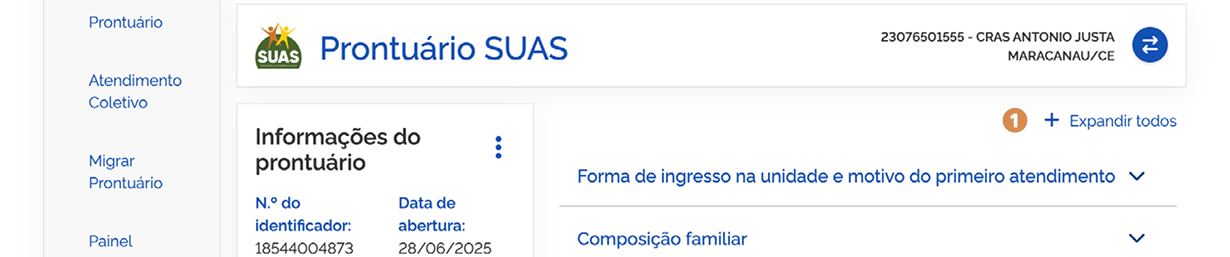
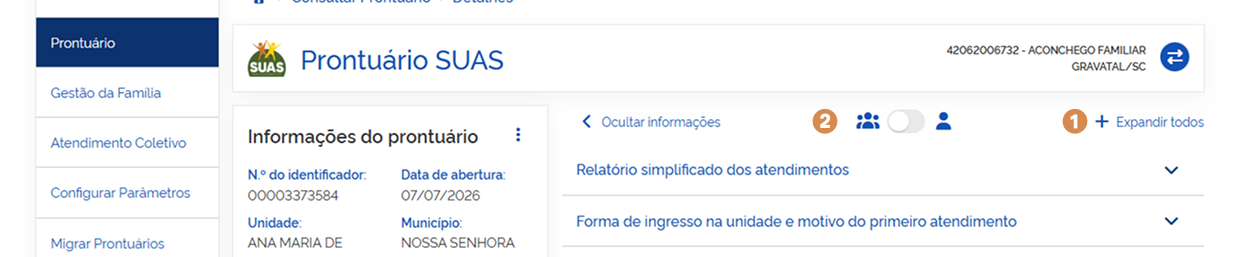
executado ate pagina 48

diff --git a/prontuario-dataprev/manual-markdown-quarto/completo.html b/prontuario-dataprev/manual-markdown-quarto/completo.html
@@ -966,7 +966,7 @@ Eletrônico</p>
 </figure>
 </div>
 <h3 id="registro-de-pessoa-e-família">Registro de pessoa e família</h3>
-<p>Os benefícios ofertados pela assistência social têm como objetivo garantir proteção, promover o bem-estar e fortalecer os vínculos familiares e comunitários. Eles podem ser destinados à família como um todo ou a um de seus membros em particular, conforme a situação identificada no atendimento.</p>
+<p>Os benefícios ofertados pela assistência social têm como objetivo garantir proteção, promover o bem-estar e fortalecer os vínculos familiares e comunitários. Eles podem ser destinados à família como um todo ou a um de seus membros em particular, conforme a situação identificada no atendimento <kbd>2</kbd>.</p>
 <ul>
 <li><strong>Benefícios voltados à família:</strong> são aqueles que consideram as necessidades do núcleo familiar de forma integrada, buscando melhorar suas condições de vida de maneira coletiva. Exemplos incluem benefícios que apoiam a renda familiar, a moradia ou o acesso a serviços essenciais, fortalecendo a estrutura e a autonomia da família como um todo.</li>
 <li><strong>Benefícios voltados a um membro específico:</strong> destinam-se a atender situações particulares de um integrante da família, quando há uma vulnerabilidade individual que requer atenção diferenciada — como uma pessoa idosa, com deficiência, gestante, criança ou adolescente em situação de risco.</li>
@@ -987,11 +987,10 @@ Eletrônico</p>
 </div>
 </div>
 </div>
-<h2 id="aspectos-globais-do-módulo-prontuário-1">Aspectos globais do módulo Prontuário</h2>
 <h3 id="registro-de-marcadores">Registro de marcadores</h3>
 <div class="quarto-figure quarto-figure-center">
 <figure>
-<p><img src="img/aspectos-globais-do-modulo-prontuario-8.png"></p>
+<p><img src="img/aspectos-globais-do-modulo-prontuario-8.png" class="w-80"></p>
 <figcaption>Registro de marcadores</figcaption>
 </figure>
 </div>
@@ -1090,10 +1089,11 @@ Eletrônico</p>
 <h3 id="registrar-data-de-término">Registrar data de término</h3>
 <div class="quarto-figure quarto-figure-center">
 <figure>
-<p><img src="img/aspectos-globais-do-modulo-prontuario-11.png"></p>
+<p><img src="img/aspectos-globais-do-modulo-prontuario-11.png" class="w-80"></p>
 <figcaption>Registrar data de término</figcaption>
 </figure>
 </div>
+<p><br></p>
 <p>Para definir o encerramento da vigência do marcador, acione a opção <kbd>4</kbd> <strong>Registrar data de término</strong> (ícone <code>+</code>) na tabela. O sistema apresentará a janela <strong>Registrar data de término</strong> com os seguintes campos:</p>
 <ul>
 <li><strong>Data de término</strong> – campo para informar a data de conclusão/encerramento do marcador;</li>
@@ -1133,7 +1133,8 @@ Eletrônico</p>
 <li><strong>N.º do identificador</strong> – campo que informa o número de identificação do prontuário de atendimento da pessoa;</li>
 <li><strong>Data de abertura</strong> – campo que informa a data em que o prontuário de atendimento da pessoa foi criado;</li>
 <li><strong>Unidade</strong> – campo que informa o nome da unidade CRAS responsável pelo cadastro do prontuário de atendimento da pessoa;</li>
-<li><strong>Município/ UF</strong> – campo que informa o município e estado onde está localizada a unidade CRAS responsável pelo cadastro do prontuário de atendimento da pessoa.</li>
+<li><strong>Município/ UF</strong> – campo que informa o município e estado onde está localizada a unidade CRAS responsável pelo cadastro do prontuário de atendimento da pessoa;</li>
+<li><strong>Origem das informações</strong> – campo que informa a origem das informações do prontuário.</li>
 </ul>
 <p>Caso exista solicitação de migração para o prontuário eletrônico da pessoa/ família, será apresentada a mensagem: <em>“Existe solicitação de migração em andamento para a unidade &lt;&lt;cód. e nome da unidade de destino&gt;&gt;”</em>.</p>
 </div>
@@ -1189,7 +1190,7 @@ Eletrônico</p>
 </figure>
 </div>
 <h2 id="migrar-prontuário-2">Migrar Prontuário</h2>
-<p>Conforme representado na janela representada na página anterior, o agrupamento é composto pelos campos:</p>
+<p>Conforme representado na janela da página anterior, o agrupamento é composto pelos campos:</p>
 <ul>
 <li><strong>Texto informativo</strong> – Ao confirmar a operação, será criada uma solicitação de migração do prontuário da pessoa e demais membros da família para a unidade de destino.</li>
 </ul>
@@ -1271,7 +1272,8 @@ Eletrônico</p>
 <li><strong>Nome do técnico responsável</strong> – campo que informa o nome do técnico responsável pela solicitação;</li>
 <li><strong>UF</strong> – campo para informar a UF da unidade de destino;</li>
 <li><strong>Município</strong> – campo para informar o município conforme UF da unidade de destino;</li>
-<li><strong>Motivo</strong> – campo para informar o motivo da solicitação de migração do prontuário da pessoa/ família. O sistema listará as unidades conforme UF/ município informado anteriormente;</li>
+<li><strong>Unidade de destino</strong> – campo para informar a unidade de destino do prontuário da pessoa/ família. O sistema listará as unidades conforme UF/ município informado anteriormente;</li>
+<li><strong>Motivo</strong> – campo para informar o motivo da solicitação de migração do prontuário da pessoa/ família;</li>
 <li><strong>Cancelar</strong> – opção que ao ser acionada, cancela a ação e fecha a janela;</li>
 <li><strong>Confirmar</strong> – opção que, ao ser acionada, salva a solicitação de migração do prontuário eletrônico.</li>
 </ul>
@@ -1861,8 +1863,8 @@ Conforme representado na janela acima, o agrupamento é composto pelos campos:
 <h2 id="forma-de-ingresso-na-unidade-e-motivo-do-primeiro-atendimento-8">Forma de ingresso na unidade e motivo do primeiro atendimento</h2>
 <h3 id="excluir-registro">Excluir registro</h3>
 <p>Para <strong>excluir o registro da lista</strong>, acione a opção <kbd>5</kbd> <strong>Excluir forma de ingresso</strong>, e o sistema solicitará a confirmação da ação. Caso confirmada, o sistema atualiza a lista e apresenta a mensagem <em>“Forma de ingresso excluída com sucesso”</em>.</p>
-<h3 id="observações-e-marcadores-de-forma-de-ingresso-e-motivo-do-primeiro-atendimento">Observações e Marcadores de forma de ingresso e motivo do primeiro atendimento</h3>
-<p>Para mais informações sobre o <kbd>5</kbd> <strong>registro de observações</strong> e o <kbd>6</kbd> <strong>registro de marcadores</strong>, consulte as páginas <a href="#aspectos-globais-do-módulo-prontuário">19</a> e <a href="#aspectos-globais-do-módulo-prontuário">23</a> deste manual, respectivamente.</p>
+<h3 id="observações-e-marcadores-de-forma-de-ingresso-e-motivo-do-primeiro-atendimento">Observações e marcadores de forma de ingresso e motivo do primeiro atendimento</h3>
+<p>Para mais informações sobre o <kbd>5</kbd> <strong>registro de observações</strong> e o <kbd>6</kbd> <strong>registro de marcadores</strong>, consulte as páginas <a href="#aspectos-globais-do-módulo-prontuário">21</a> e <a href="#aspectos-globais-do-módulo-prontuário">24</a> deste manual, respectivamente.</p>
 <p><br></p>
 <p>Para retrair ou reexibir as informações contidas no bloco, acione o <kbd>8</kbd> ícone.</p>
 </div>
@@ -1928,7 +1930,8 @@ Conforme representado na janela acima, o agrupamento é composto pelos campos:
 </figure>
 </div>
 <h2 id="composição-familiar-3">Composição familiar</h2>
-<p>Para mais informações sobre o <kbd>4</kbd> <strong>registro de observações</strong> e o <kbd>5</kbd> <strong>registro de marcadores</strong>, consulte as páginas <a href="#aspectos-globais-do-módulo-prontuário">19</a> e <a href="#aspectos-globais-do-módulo-prontuário">23</a> deste manual, respectivamente.</p>
+<h3 id="observações-e-marcadores-de-composição-familiar">Observações e marcadores de Composição familiar</h3>
+<p>Para mais informações sobre o <kbd>4</kbd> <strong>registro de observações</strong> e o <kbd>5</kbd> <strong>registro de marcadores</strong>, consulte as páginas <a href="#aspectos-globais-do-módulo-prontuário">21</a> e <a href="#aspectos-globais-do-módulo-prontuário">24</a> deste manual, respectivamente.</p>
 <p><br></p>
 <p>Para retrair ou reexibir as informações contidas no bloco, acione o <kbd>6</kbd> ícone.</p>
 </div>

diff --git a/prontuario-dataprev/manual-markdown-quarto/_base.css b/prontuario-dataprev/manual-markdown-quarto/_base.css
@@ -512,6 +512,7 @@ img {
   margin-bottom: 2.5rem;
   margin-left: auto;
   margin-right: auto;
+  border: 1px solid var(--light-gray);
 }
 
 /* Single column full-width page */

diff --git a/prontuario-dataprev/manual-markdown-quarto/completo.md b/prontuario-dataprev/manual-markdown-quarto/completo.md
@@ -775,7 +775,7 @@ Na página de blocos de atendimento, clique em <kbd>1</kbd> **Expandir todos** p
 
 ### Registro de pessoa e família
 
-Os benefícios ofertados pela assistência social têm como objetivo garantir proteção, promover o bem-estar e fortalecer os vínculos familiares e comunitários. Eles podem ser destinados à família como um todo ou a um de seus membros em particular, conforme a situação identificada no atendimento.
+Os benefícios ofertados pela assistência social têm como objetivo garantir proteção, promover o bem-estar e fortalecer os vínculos familiares e comunitários. Eles podem ser destinados à família como um todo ou a um de seus membros em particular, conforme a situação identificada no atendimento <kbd>2</kbd>.
 
 - **Benefícios voltados à família:** são aqueles que consideram as necessidades do núcleo familiar de forma integrada, buscando melhorar suas condições de vida de maneira coletiva. Exemplos incluem benefícios que apoiam a renda familiar, a moradia ou o acesso a serviços essenciais, fortalecendo a estrutura e a autonomia da família como um todo.
 - **Benefícios voltados a um membro específico:** destinam-se a atender situações particulares de um integrante da família, quando há uma vulnerabilidade individual que requer atenção diferenciada — como uma pessoa idosa, com deficiência, gestante, criança ou adolescente em situação de risco.
@@ -788,11 +788,9 @@ Os benefícios ofertados pela assistência social têm como objetivo garantir pr
 
 {{< include _header-prontuario-individual.md >}}
 
-## Aspectos globais do módulo Prontuário
-
 ### Registro de marcadores
 
-![Registro de marcadores](img/aspectos-globais-do-modulo-prontuario-8.png)
+![Registro de marcadores](img/aspectos-globais-do-modulo-prontuario-8.png){.w-80}
 
 O **Registro de marcadores** permite identificar e sinalizar situações ou particularidades relacionadas aos membros da família no Prontuário.
 
@@ -866,7 +864,9 @@ Para editar, acione a opção <kbd>3</kbd> **Alterar marcador** (ícone de lápi
 
 ### Registrar data de término
 
-![Registrar data de término](img/aspectos-globais-do-modulo-prontuario-11.png)
+![Registrar data de término](img/aspectos-globais-do-modulo-prontuario-11.png){.w-80}
+
+</br>
 
 Para definir o encerramento da vigência do marcador, acione a opção <kbd>4</kbd> **Registrar data de término** (ícone `+`) na tabela. O sistema apresentará a janela **Registrar data de término** com os seguintes campos:
 
@@ -899,7 +899,8 @@ Conforme representado na tela ao lado, o agrupamento é composto pelos campos:
 - **N.º do identificador** – campo que informa o número de identificação do prontuário de atendimento da pessoa;
 - **Data de abertura** – campo que informa a data em que o prontuário de atendimento da pessoa foi criado;
 - **Unidade** – campo que informa o nome da unidade CRAS responsável pelo cadastro do prontuário de atendimento da pessoa;
-- **Município/ UF** – campo que informa o município e estado onde está localizada a unidade CRAS responsável pelo cadastro do prontuário de atendimento da pessoa.
+- **Município/ UF** – campo que informa o município e estado onde está localizada a unidade CRAS responsável pelo cadastro do prontuário de atendimento da pessoa;
+- **Origem das informações** – campo que informa a origem das informações do prontuário.
 
 Caso exista solicitação de migração para o prontuário eletrônico da pessoa/ família, será apresentada a mensagem: _"Existe solicitação de migração em andamento para a unidade <<cód. e nome da unidade de destino>>"_.
 
@@ -931,7 +932,7 @@ Para migrar o prontuário eletrônico para outra unidade de atendimento, acione 
 
 ## Migrar Prontuário
 
-Conforme representado na janela representada na página anterior, o agrupamento é composto pelos campos:
+Conforme representado na janela da página anterior, o agrupamento é composto pelos campos:
 
 - **Texto informativo** – Ao confirmar a operação, será criada uma solicitação de migração do prontuário da pessoa e demais membros da família para a unidade de destino.
 
@@ -991,7 +992,8 @@ Conforme representado na janela representada na página anterior, o agrupamento 
 - **Nome do técnico responsável** – campo que informa o nome do técnico responsável pela solicitação;
 - **UF** – campo para informar a UF da unidade de destino;
 - **Município** – campo para informar o município conforme UF da unidade de destino;
-- **Motivo** – campo para informar o motivo da solicitação de migração do prontuário da pessoa/ família. O sistema listará as unidades conforme UF/ município informado anteriormente;
+- **Unidade de destino** – campo para informar a unidade de destino do prontuário da pessoa/ família. O sistema listará as unidades conforme UF/ município informado anteriormente;
+- **Motivo** – campo para informar o motivo da solicitação de migração do prontuário da pessoa/ família;
 - **Cancelar** – opção que ao ser acionada, cancela a ação e fecha a janela;
 - **Confirmar** – opção que, ao ser acionada, salva a solicitação de migração do prontuário eletrônico.
 
@@ -1384,9 +1386,9 @@ A janela <kbd>4</kbd> **Alterar forma de ingresso** contém os seguintes dados:
 
 Para **excluir o registro da lista**, acione a opção <kbd>5</kbd> **Excluir forma de ingresso**, e o sistema solicitará a confirmação da ação. Caso confirmada, o sistema atualiza a lista e apresenta a mensagem _"Forma de ingresso excluída com sucesso"_.
 
-### Observações e Marcadores de forma de ingresso e motivo do primeiro atendimento
+### Observações e marcadores de forma de ingresso e motivo do primeiro atendimento
 
-Para mais informações sobre o <kbd>5</kbd> **registro de observações** e o <kbd>6</kbd> **registro de marcadores**, consulte as páginas [19](#aspectos-globais-do-módulo-prontuário) e [23](#aspectos-globais-do-módulo-prontuário) deste manual, respectivamente.
+Para mais informações sobre o <kbd>5</kbd> **registro de observações** e o <kbd>6</kbd> **registro de marcadores**, consulte as páginas [21](#aspectos-globais-do-módulo-prontuário) e [24](#aspectos-globais-do-módulo-prontuário) deste manual, respectivamente.
 
 <br>
 
@@ -1436,7 +1438,9 @@ O agrupamento de campos das <kbd>3</kbd> **especificidades sociais, étnicas ou 
 
 ## Composição familiar
 
-Para mais informações sobre o <kbd>4</kbd> **registro de observações** e o <kbd>5</kbd> **registro de marcadores**, consulte as páginas [19](#aspectos-globais-do-módulo-prontuário) e [23](#aspectos-globais-do-módulo-prontuário) deste manual, respectivamente.
+### Observações e marcadores de Composição familiar
+
+Para mais informações sobre o <kbd>4</kbd> **registro de observações** e o <kbd>5</kbd> **registro de marcadores**, consulte as páginas [21](#aspectos-globais-do-módulo-prontuário) e [24](#aspectos-globais-do-módulo-prontuário) deste manual, respectivamente.
 
 <br>
 
